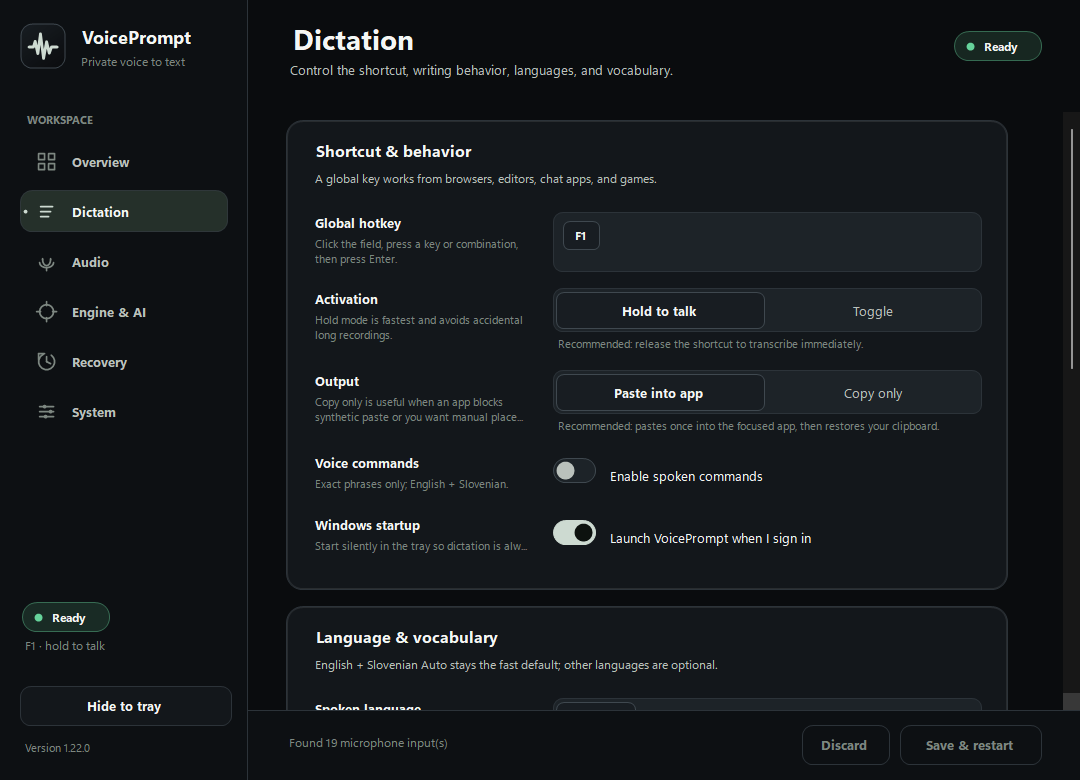
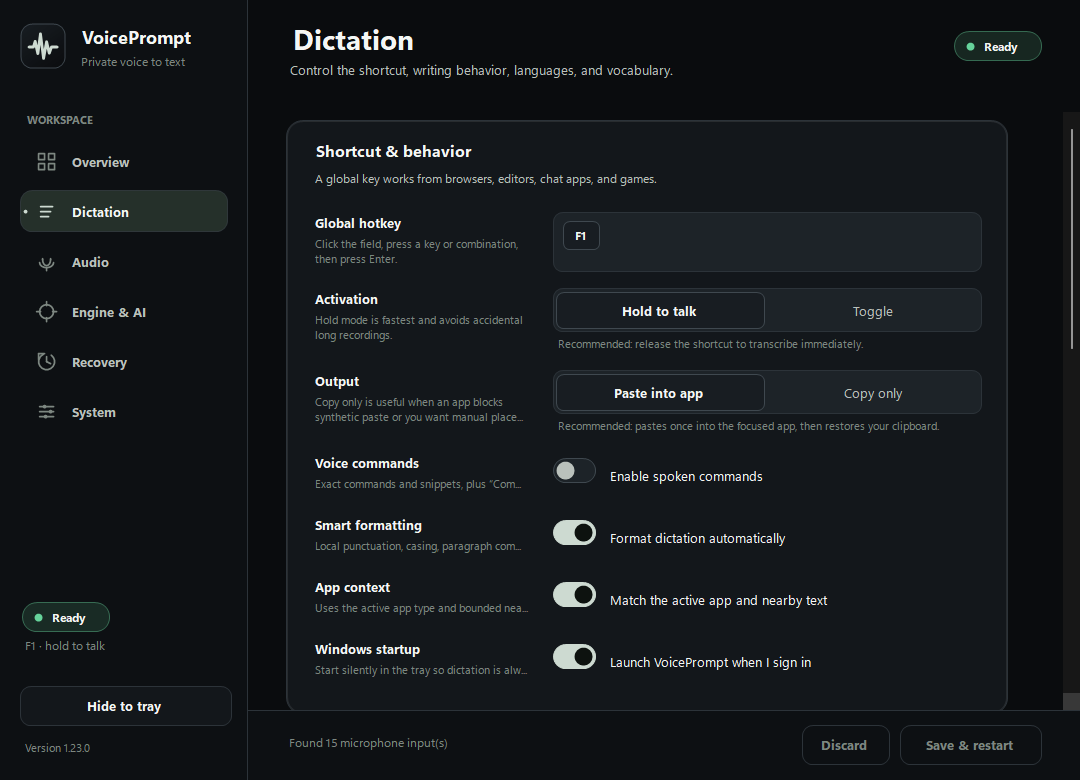
docs(pages): publish v1.23.0

diff --git a/docs/index.html b/docs/index.html
@@ -5,10 +5,10 @@
   <meta name="viewport" content="width=device-width, initial-scale=1">
   <meta name="theme-color" content="#0c0e10">
   <meta name="color-scheme" content="dark">
-  <meta name="description" content="VoicePrompt is private, GPU-accelerated voice typing for Windows with 100 Whisper languages, tuned English and Slovenian Auto, recovery, app profiles, and optional AI cleanup.">
+  <meta name="description" content="VoicePrompt is private, GPU-accelerated voice typing for Windows with 100 Whisper languages, smart local formatting, app context, correction learning, and explicit AI commands.">
   <meta property="og:type" content="website">
   <meta property="og:title" content="VoicePrompt — private voice typing for Windows">
-  <meta property="og:description" content="Dictate in any of 100 Whisper languages. Local by default, fast on NVIDIA GPUs, with tuned English and Slovenian automatic detection.">
+  <meta property="og:description" content="Dictate in any of 100 Whisper languages with local smart formatting, app-aware context, correction learning, and tuned English and Slovenian Auto.">
   <meta property="og:url" content="https://senkokg.github.io/VoicePrompt/">
   <meta property="og:image" content="https://raw.githubusercontent.com/seNkoKG/VoicePrompt/main/assets/logo.png">
   <meta name="twitter:card" content="summary_large_image">
@@ -24,9 +24,9 @@
     "applicationCategory": "UtilitiesApplication",
     "operatingSystem": "Windows 11",
     "description": "Private, GPU-accelerated voice-to-text dictation for Windows with 100 supported Whisper languages.",
-    "downloadUrl": "https://senkokg.github.io/VoicePrompt/downloads/VoicePrompt-v1.22.0-windows-x64.zip",
+    "downloadUrl": "https://senkokg.github.io/VoicePrompt/downloads/VoicePrompt-v1.23.0-windows-x64.zip",
     "softwareRequirements": "Windows 11, Python 3.11 or newer, NVIDIA GPU",
-    "featureList": "100 Whisper languages, English and Slovenian Auto, resilient global push-to-talk hotkeys, three selectable recording overlay styles, long-recording buffering, local transcript recovery, reusable snippets, application profiles, verified in-app updates, optional AI text cleanup",
+    "featureList": "100 Whisper languages, English and Slovenian Auto, local smart formatting, bounded application context, correction learning, selected-text AI commands, resilient global push-to-talk hotkeys, long-recording buffering, transcript recovery, reusable snippets, application profiles, verified in-app updates",
     "license": "https://opensource.org/license/mit"
   }
   </script>
@@ -51,7 +51,7 @@
         <a href="#features">Features</a>
         <a href="#privacy">Privacy</a>
         <a href="https://github.com/seNkoKG/VoicePrompt" target="_blank" rel="noreferrer">GitHub <span aria-hidden="true">↗</span></a>
-        <a class="button button-small button-light" href="downloads/VoicePrompt-v1.22.0-windows-x64.zip" download>Download</a>
+        <a class="button button-small button-light" href="downloads/VoicePrompt-v1.23.0-windows-x64.zip" download>Download</a>
       </div>
     </nav>
   </header>
@@ -61,9 +61,9 @@
       <div class="hero-copy reveal">
         <div class="eyebrow"><span class="pulse-dot"></span> Local-first dictation · 100 languages</div>
         <h1>Speak naturally.<br><span>Type anywhere.</span></h1>
-        <p class="hero-lede">Hold one key, say what you mean, and release. VoicePrompt recognizes any of Whisper's 100 languages and puts the result inside the app you are already using.</p>
+        <p class="hero-lede">Hold one key, say what you mean, and release. VoicePrompt recognizes any of Whisper's 100 languages, formats the result for the active app, and puts it where you are already working.</p>
         <div class="hero-actions">
-          <a class="button button-primary" href="downloads/VoicePrompt-v1.22.0-windows-x64.zip" download>
+          <a class="button button-primary" href="downloads/VoicePrompt-v1.23.0-windows-x64.zip" download>
             <svg aria-hidden="true" viewBox="0 0 20 20"><path d="M10 2v10m0 0 4-4m-4 4L6 8M3 15.5h14"/></svg>
             Download for Windows
           </a>
@@ -94,7 +94,7 @@
 
     <section class="trust-strip shell reveal" aria-label="Product highlights">
       <div><strong>Local-first</strong><span>Private audio pipeline</span></div>
-      <div><strong>~0.6 s</strong><span>Measured 8 s decode*</span></div>
+      <div><strong>0.57 s</strong><span>20-clip median decode*</span></div>
       <div><strong>100 languages</strong><span>EN + SL Auto by default</span></div>
       <div><strong>Release gated</strong><span>Verified before publishing</span></div>
     </section>
@@ -184,12 +184,12 @@
             <span class="card-tag">A complete daily workflow</span>
             <h3>Useful controls, without hidden behavior.</h3>
             <div class="tool-list">
-              <div><i>01</i><span><strong>Corrections, commands, and snippets</strong><small>Keep recurring text fixes and reusable phrases local.</small></span></div>
-              <div><i>02</i><span><strong>Four writing modes</strong><small>Verbatim, Clean, Grammar, or structured Prompt.</small></span></div>
-              <div><i>03</i><span><strong>Recovery comparison</strong><small>Copy the delivered result or untouched original.</small></span></div>
-              <div><i>04</i><span><strong>Application profiles</strong><small>Set writing and output behavior per executable.</small></span></div>
-              <div><i>05</i><span><strong>Portable backups</strong><small>Move settings without keys, transcripts, or device paths.</small></span></div>
-              <div><i>06</i><span><strong>Compatible server mode</strong><small>Opt into self-hosted recognition on other hardware.</small></span></div>
+              <div><i>01</i><span><strong>Smart local formatting</strong><small>Speak punctuation and paragraphs without enabling an AI provider.</small></span></div>
+              <div><i>02</i><span><strong>Bounded app context</strong><small>Match casing, spacing, and writing style while excluding password fields.</small></span></div>
+              <div><i>03</i><span><strong>Corrections that learn</strong><small>Teach a recurring mishearing once from local Recovery.</small></span></div>
+              <div><i>04</i><span><strong>Selected-text commands</strong><small>Say “Command …” or “Ukaz …” for an explicit AI transformation.</small></span></div>
+              <div><i>05</i><span><strong>Four writing modes</strong><small>Verbatim, Clean, Grammar, or structured Prompt.</small></span></div>
+              <div><i>06</i><span><strong>Recovery comparison</strong><small>Copy the delivered result or untouched original.</small></span></div>
             </div>
           </article>
         </div>
@@ -231,8 +231,8 @@
         <li><strong>Paste or Copy only</strong><span>Reliable output choices</span></li>
         <li><strong>Buffered long prompts</strong><span>One ordered result</span></li>
         <li><strong>Live input test</strong><span>No second audio capture</span></li>
-        <li><strong>Commands and snippets</strong><span>Exact local actions</span></li>
-        <li><strong>Personal corrections</strong><span>Deterministic replacements</span></li>
+        <li><strong>Smart formatting and context</strong><span>Local, bounded, configurable</span></li>
+        <li><strong>Correction learning</strong><span>Immediate deterministic fixes</span></li>
         <li><strong>Four writing modes</strong><span>Verbatim through Prompt</span></li>
         <li><strong>Result and original recovery</strong><span>Bounded local history</span></li>
         <li><strong>Per-application profiles</strong><span>Exact executable rules</span></li>
@@ -249,7 +249,7 @@
           <h2>Local audio.<br>Visible choices.</h2>
           <p>The default path is microphone to local GPU to focused app. There is no account, analytics SDK, hidden upload, or saved recording.</p>
           <ul class="privacy-details">
-            <li>Optional AI cleanup sends completed text only.</li>
+            <li>Optional AI cleanup sends completed text only; selected text is sent only after an explicit Command or Ukaz action.</li>
             <li>Compatible server mode sends audio only to the server you configure.</li>
             <li>Manual update checks and confirmed downloads contact only the official GitHub release endpoints.</li>
           </ul>
@@ -294,7 +294,7 @@
       <h2>Your next sentence is faster out loud.</h2>
       <p>Download VoicePrompt, choose from 100 languages, and keep your hands on the work that matters.</p>
       <div class="hero-actions centered">
-        <a class="button button-primary" href="downloads/VoicePrompt-v1.22.0-windows-x64.zip" download>Download latest release</a>
+        <a class="button button-primary" href="downloads/VoicePrompt-v1.23.0-windows-x64.zip" download>Download latest release</a>
         <a class="button button-ghost" href="https://github.com/seNkoKG/VoicePrompt">Star on GitHub <span aria-hidden="true">↗</span></a>
       </div>
     </section>
@@ -307,12 +307,12 @@
         <p>Local-first voice typing in 100 languages.</p>
       </div>
       <div class="footer-links">
-        <a href="downloads/VoicePrompt-v1.22.0-windows-x64.zip" download>Download</a>
+        <a href="downloads/VoicePrompt-v1.23.0-windows-x64.zip" download>Download</a>
         <a href="https://github.com/seNkoKG/VoicePrompt">Source</a>
         <a href="https://github.com/seNkoKG/VoicePrompt/issues">Issues</a>
         <a href="https://github.com/seNkoKG/VoicePrompt/blob/main/README.md">Documentation</a>
       </div>
-      <p class="footer-meta">MIT licensed · Built on faster-whisper<br><span>*RTX 5080, large-v3, 8-second sample. Hardware varies.</span></p>
+      <p class="footer-meta">MIT licensed · Built on faster-whisper<br><span>*RTX 5080, large-v3, 20 public FLEURS validation clips. Hardware and speech vary.</span></p>
     </div>
   </footer>
 
